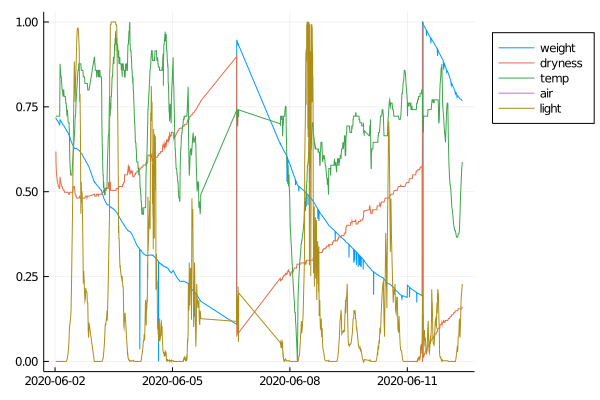
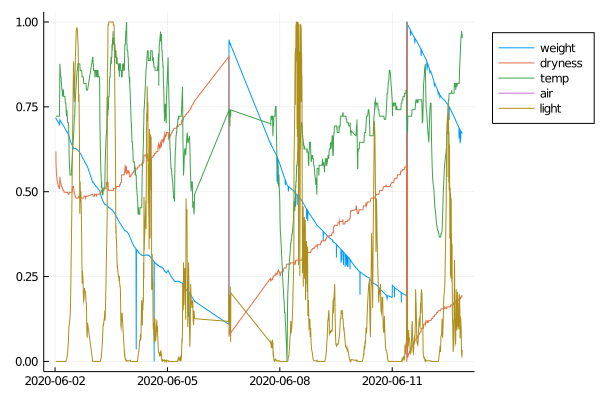
add bme280 humidity, weight outlier detection

Changed region(s): [[0.09, 0.03, 0.78, 0.96], [0.75, 0.09, 0.78, 0.12]]

diff --git a/arduino/measure.h b/arduino/measure.h
@@ -1,7 +1,5 @@
-#include "Arduino.h"
-
-#include "HX711.h"
-#include "DHT.h"
+#ifndef MEASURE_H
+#define MEASURE_H
 
 #define LOADCELL_DOUT_PIN 4
 #define LOADCELL_SCK_PIN 12
@@ -11,9 +9,6 @@
 
 #define MOISTURE_PIN A0
 #define PHOTO_PIN A2
-
-HX711 weight;
-DHT dht(DHTPIN, DHTTYPE);
 
 struct measurement {
   unsigned long time;
@@ -29,7 +24,7 @@ struct compressed {
   int weight;
   byte moisture;
   byte temp;
-  //#byte humidity;
+  byte humidity;
   byte light; 
 };
 
@@ -38,5 +33,7 @@ compressed compress(measurement);
 measurement uncompress(compressed);
 void print(measurement);
 measurement add(measurement, measurement);
-measurement mult(measurement, float);
+measurement div(measurement, unsigned int);
 measurement measure();
+
+#endif
